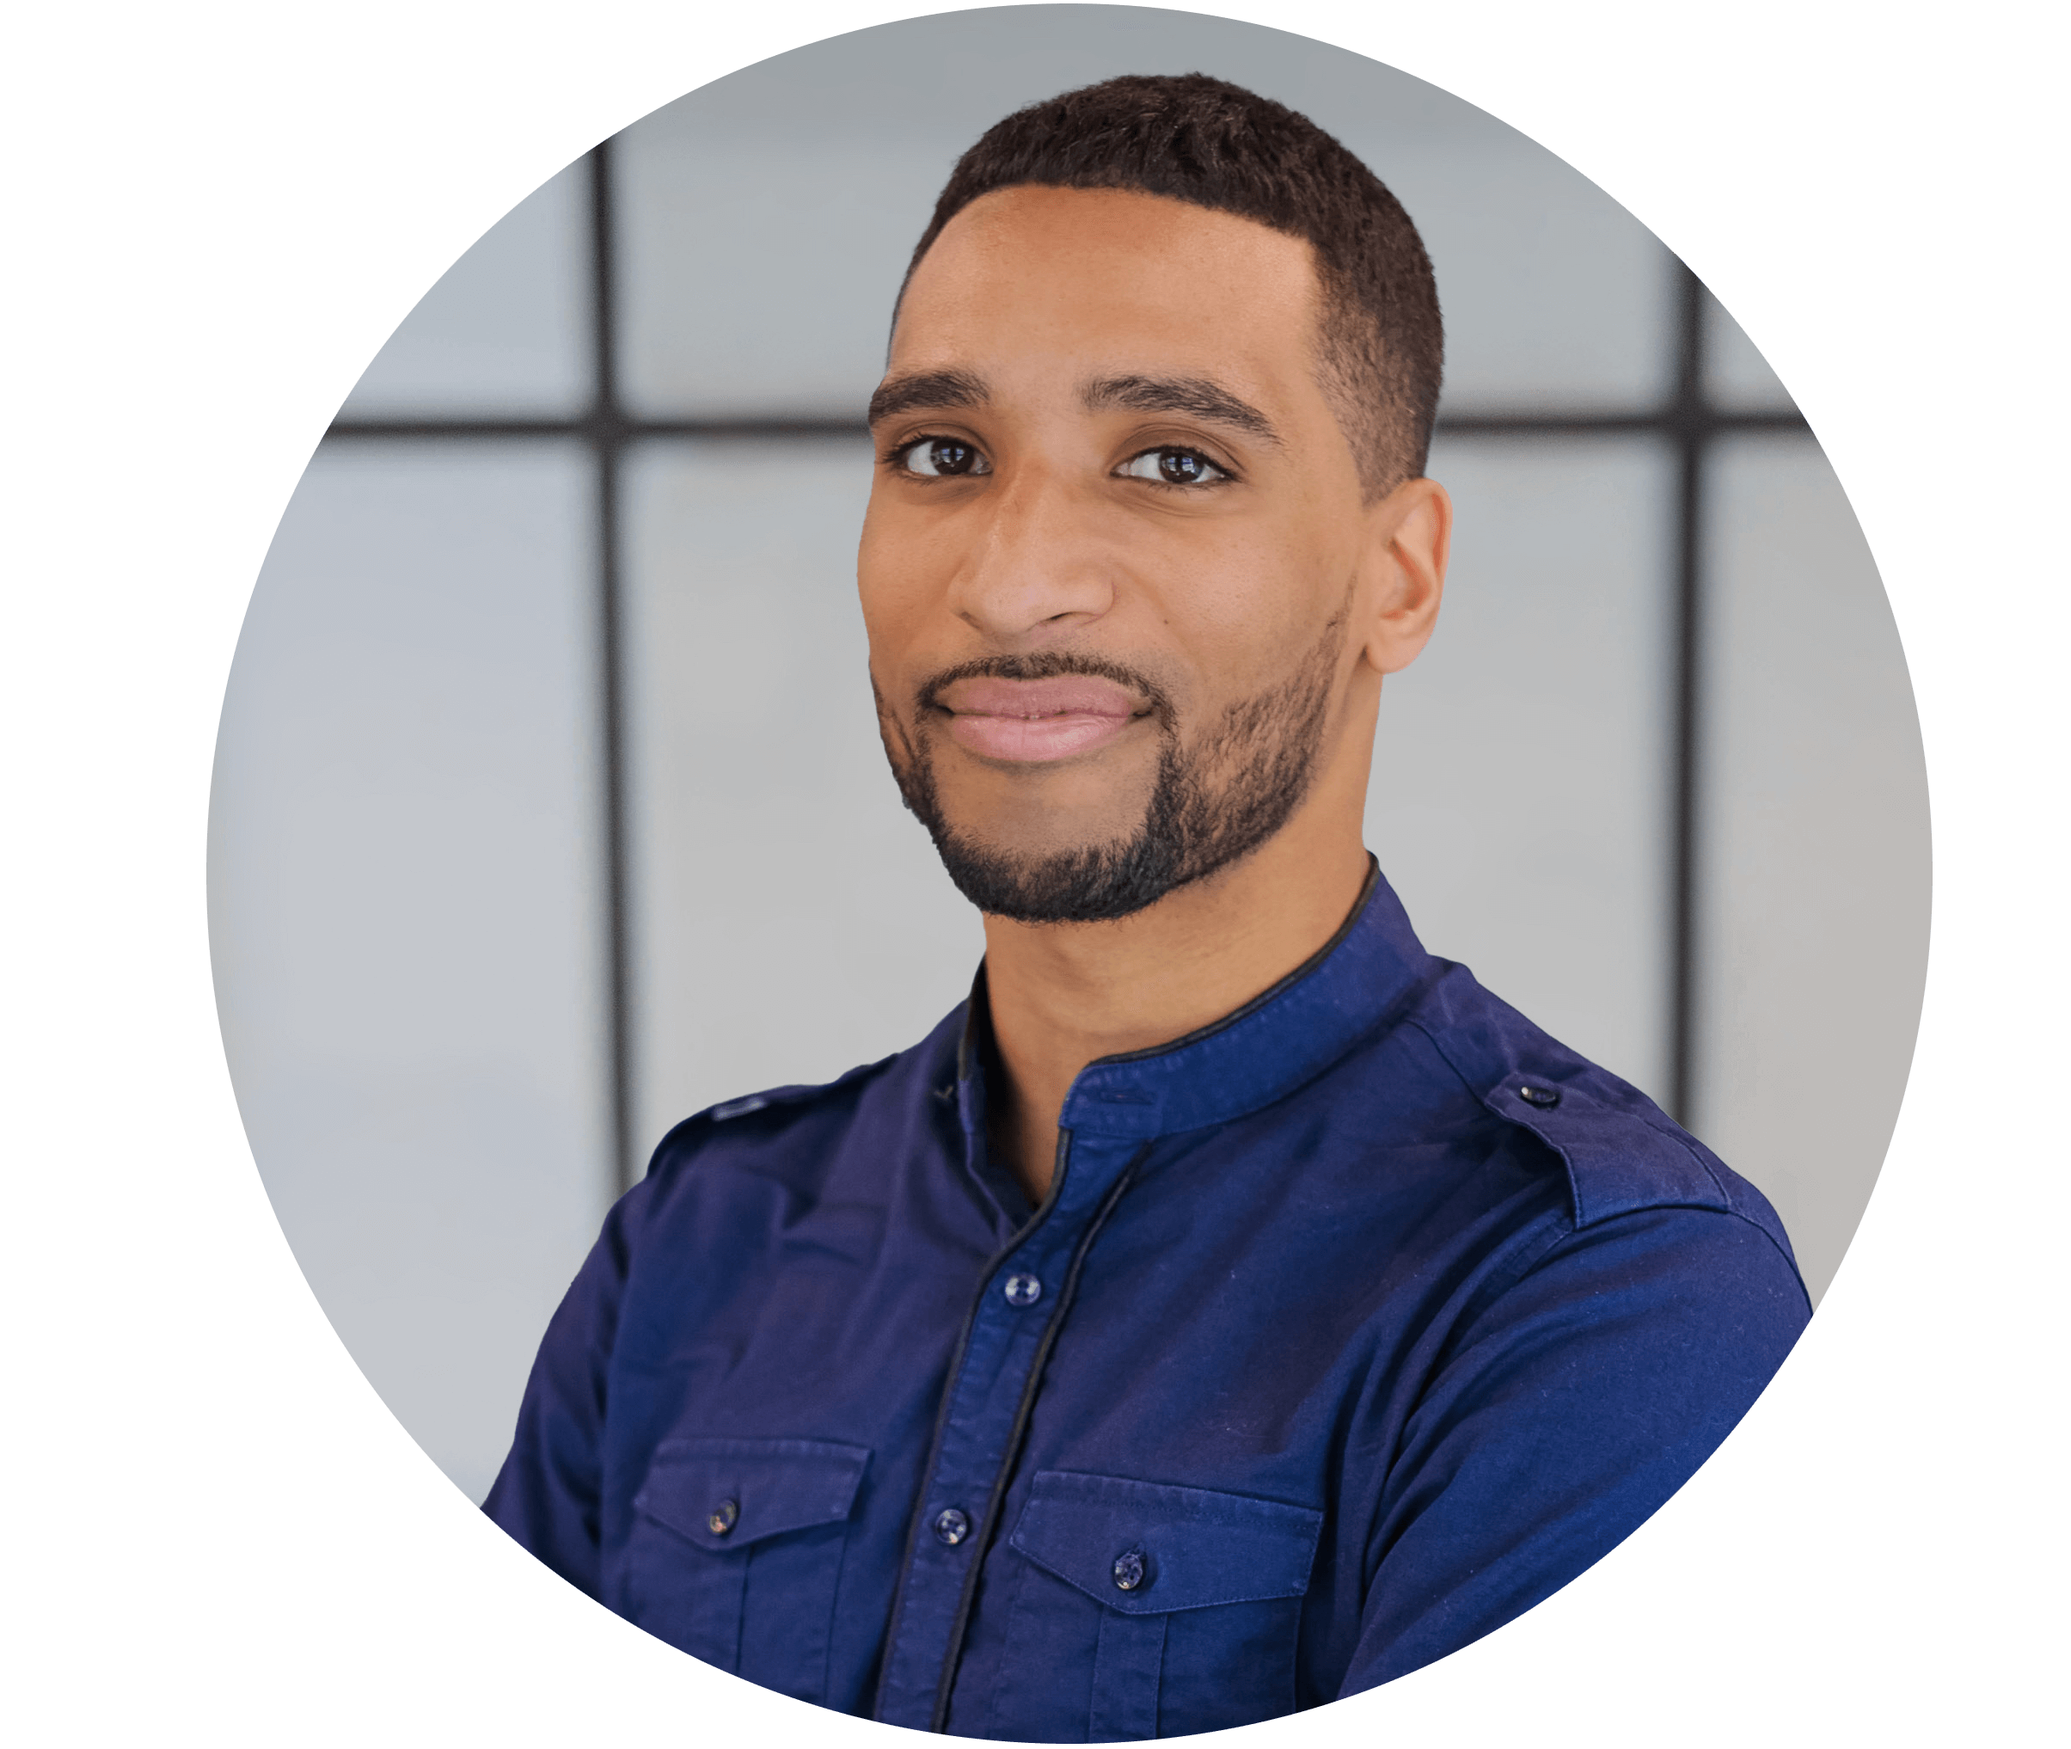
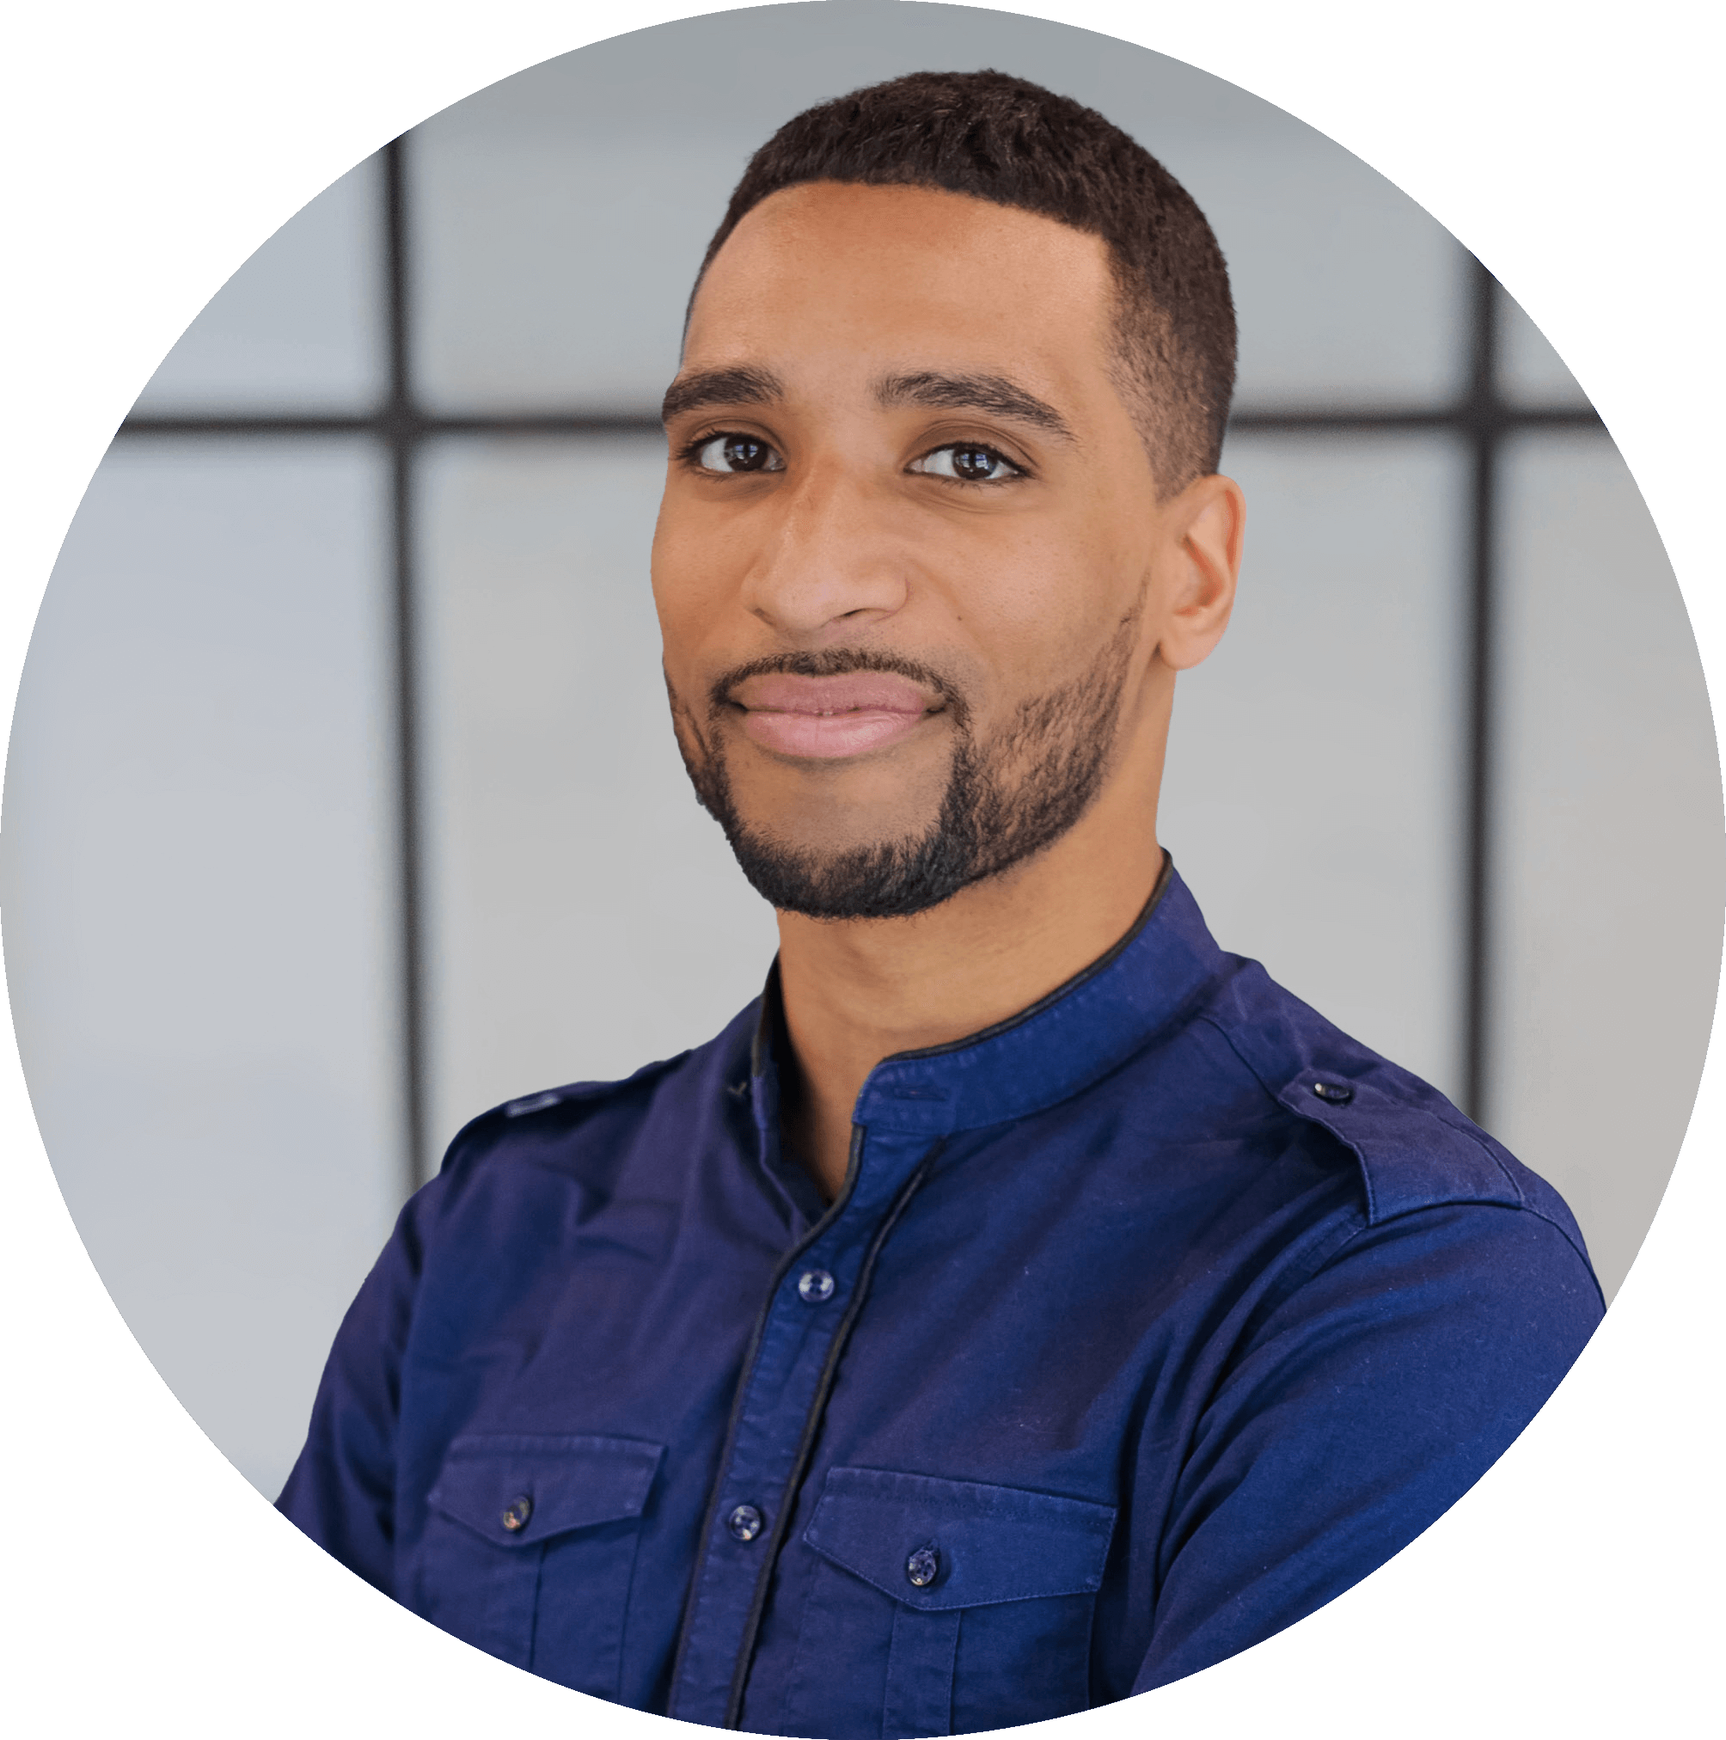
test Header lazy img + add small images 1Kb + remove useless srcSet

diff --git a/src/components/Header.tsx b/src/components/Header.tsx
@@ -1,4 +1,4 @@
-import imageKit from "../data/imagekit";
+import { useEffect, useState } from "react";
 import HeaderIntro from "./micro-components/HeaderIntro";
 
 interface Header {
@@ -8,7 +8,19 @@ interface Header {
 
 const Header = ({ obsRef, isMobile }: Header) => {
   const animatePicturePop = isMobile ? "" : "animate-picturePop";
-  const { urlEndpoint } = imageKit;
+
+  const [loaded, setLoaded] = useState(false);
+  const [imgClass, setImgClass] = useState('opacity-0');
+  const [containerImgClass, setContainerImgClass] = useState('blur-md');
+  const handleLoading = () => setLoaded(true);
+
+  useEffect(() => {
+    console.log(loaded);
+    if (loaded) {
+      setImgClass('opacity-1');
+      setContainerImgClass('');
+    }
+  }, [loaded]);
 
   return (
     <div
@@ -30,16 +42,26 @@ const Header = ({ obsRef, isMobile }: Header) => {
       >
         <HeaderIntro isMobile={isMobile} />
         <div
-          className={`w-60 md:w-96
-          h-auto md:h-96
+          className={`w-64 h-64 md:w-96 md:h-96
           flex justify-center items-center
           ${animatePicturePop}`}
         >
-          <img
-            src={`${urlEndpoint}/profile-pic.png`}
-            alt="profile-pic"
-            className='drop-shadow-2xl w-64 md:w-80'
-          />
+          <div
+            className={`bg-[url('/assets/small/profile-pic.png')]
+            bg-no-repeat bg-cover rounded-full
+            w-64 h-64 md:w-80 md:h-80 ${containerImgClass}`}
+          >
+            <img
+              src={`assets/profile-pic.png`}
+              alt="profile-pic"
+              className={`drop-shadow-2xl
+                w-64 h-64 md:h-80 md:w-80
+                ${imgClass}
+                transition duration-200 ease-in`}
+              onLoad={handleLoading}
+              loading='lazy'
+            />
+          </div>
         </div>
       </div>
       <div

diff --git a/src/components/micro-components/ProjectItemMobile.tsx b/src/components/micro-components/ProjectItemMobile.tsx
@@ -65,9 +65,7 @@ const ProjectItemMobile = (project: Project) => {
             src={`${urlEndpoint}/tr:ar-4-3/mobiles/${imgUrl}`}
             alt="project"
             className={`rounded-t-lg object-cover ${imgClass}
-            w-80 h-52`}
-            srcSet={`${urlEndpoint}/tr:ar-4-3/mobiles/${imgUrl}`}
-            sizes='288px'
+              w-80 h-52`}
           />
           <Box className="p-2">
             <h2
@@ -103,6 +101,7 @@ const ProjectItemMobile = (project: Project) => {
                 alt={title}
                 className={`max-w-fit max-h-6
                 ${title === 'Acenstream' || title === 'Syneryx' ? 'w-12': 'w-4'} `} // aim at 42logo size
+                loading='lazy'
               />
             </div>
             <div className={`${hidden} animate-projectDescriptionPop mt-4`}>
